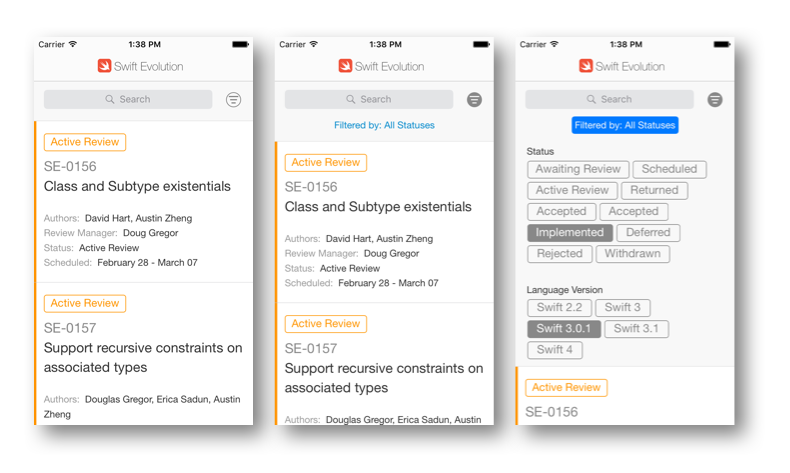
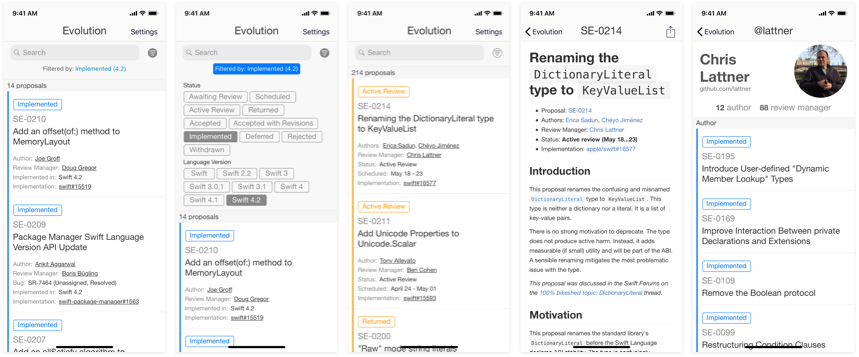
update README

diff --git a/README.md b/README.md
@@ -1,7 +1,10 @@
-# Swift Evolution - iOS
-[![Build Status](https://www.bitrise.io/app/e1327785b8df7e9e.svg?token=S2v1wACgSV9zm4F7KG7LBQ&branch=development)](https://www.bitrise.io/app/e1327785b8df7e9e)
+# EVOlution - iOS
 
-The main goal of this project is to recreate as an iOS app, the web page created to [Swift Evolution](https://apple.github.io/swift-evolution).
+The goal of this project is for the version 1.0 was: bring to iOS the experience provided by Swift Evolution [website](https://apple.github.io/swift-evolution).
+
+Now we are shifting from the basic idea to make it more social. 
+
+On our roadmap (you can read at our [GitHub Projects](https://github.com/Evolution-App/iOS/projects/2)), we have some notes for the future, which will cover stuff like: Follow Proposals starring or watching them, Follow Authors and/or Review Managers, List of most popular proposals, featured proposals and other ideas coming from the community.
 
 ![](images/screenshots_base.png)
 
@@ -90,7 +93,7 @@ After you send your pull request, other developers will make a code review befor
 
 ## License
 
-**Swift Evolution** is available under the MIT license. See the LICENSE file for more info. 
+**EVOlution App** is available under the MIT license. See the LICENSE file for more info. 
 
 
 
